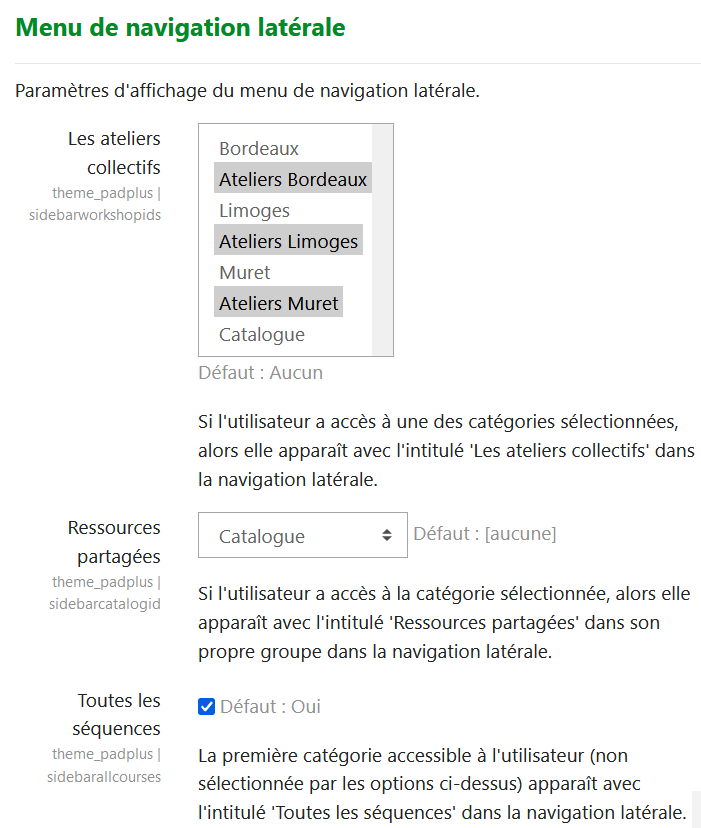
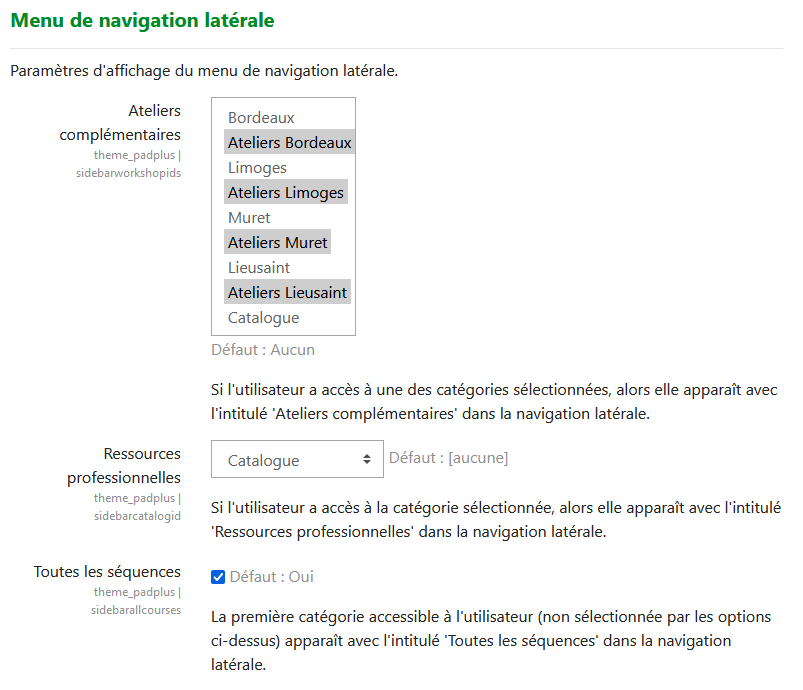
Update wording for workshops and shared resources

diff --git a/docs/organisation/contenu.md b/docs/organisation/contenu.md
@@ -3,7 +3,7 @@ sidebar_position: 1
 ---
 # Organisation et permissions
 
-Cette section décrit les principes d'organisation d'une instance PAD+. Cette organisation (et les rôles et permissions associés) permet d'héberger plusieurs sites (établissements, territoires...) sur la même instance PAD+, ainsi que de créer un catalogue de séquences et de ressources partagées entre professionnels. Cette section fait le point en particulier sur :
+Cette section décrit les principes d'organisation d'une instance PAD+. Cette organisation (et les rôles et permissions associés) permet d'héberger plusieurs sites (établissements, territoires...) sur la même instance PAD+, ainsi que de partager des ressources entre professionnels. Cette section fait le point en particulier sur :
 
 - ce qui relève de Moodle et du modèle PAD+ générique : une organisation arborescente par catégorie, avec une gestion des droits d'accès par des rôles ;
 - ce qui relève des règles d'usage à décider et gérer pour votre instance : les règles d'organisation, le nombre de niveaux, l'homogénéité entre les catégories voisines, l'attribution des rôles...
@@ -21,21 +21,21 @@ Les sections intitulées "Votre instance" (encadrés verts) rappellent les point
 
 ## Vue globale d'une instance PAD+
 
-L'organisation du contenu d'une instance PAD+ est basée sur l'arborescence des catégories de Moodle. Tout le contenu est donc hébergé sous la même arborescence, y compris le catalogue partagé.
+L'organisation du contenu d'une instance PAD+ est basée sur l'arborescence des catégories de Moodle. Tout le contenu est donc hébergé sous la même arborescence, y compris les ressources professionnelles.
 
 ![Organisation hiérarchique du contenu d'une instance PAD+](/img/organisation/organisation-instance.png)
 
 Sous la racine de l'arborescence (catégorie "Niveau supérieur" dans Moodle), on trouve donc les catégories principales de l'instance :
 
 - une catégorie pour les séquences du chaque site : celle-ci accueillera les séquences construites par les professionnels et travaillées par les stagiaires sur un site donné.
-- une catégorie pour les ateliers de chaque site : celle-ci accueillera les séquences laissées en accès libre ou auto-inscription aux stagiaires du site donné. Pour que les stagiaires puissent parcourir cette catégorie (voir plus bas), il faut que ces catégories soient sous la racine.
-- une catégorie à part pour le catalogue partagé : cette catégorie sera accessible uniquement aux professionnels, pour faciliter le partage de séquences et ressources.
+- une catégorie pour les ateliers complémentaires de chaque site : celle-ci accueillera les séquences laissées en accès libre ou auto-inscription aux stagiaires du site donné. Pour que les stagiaires puissent parcourir cette catégorie (voir plus bas), il faut que ces catégories soient sous la racine.
+- une catégorie à part pour les ressources professionnelles : cette catégorie sera accessible uniquement aux professionnels, pour faciliter le partage de séquences et ressources.
 
 :::tip Votre instance
 La granularité des catégories "site" est à déterminer par la gouvernance de l'instance : établissement, territoire... Un site correspond généralement à un regroupement d'un ensemble de professionnels et de stagiaires travaillant ensemble sur une zone géographique.
 :::
 
-Seuls les administrateurs et les gestionnaires d'instance (gestionnaire au niveau système dans Moodle) ont cette vue sur tout le contenu. En particulier, seuls ces usagers ont la capacité d'administrer l'arborescence du catalogue partagé. Un gestionnaire d'instance agit donc comme référent du catalogue.
+Seuls les administrateurs et les gestionnaires d'instance (gestionnaire au niveau système dans Moodle) ont cette vue sur tout le contenu. En particulier, seuls ces usagers ont la capacité d'administrer l'arborescence des ressources professionnelles. Un gestionnaire d'instance agit donc comme référent des ressources professionnelles.
 
 :::info PAD+
 La permission `moodle/category:viewcourselist` est retirée par défaut à tous les usagers (y compris anonymes) pour que ceux-ci ne voient pas toute l'arborescence mais uniquement celle qui leur est destinée. La visibilité de l'arborescence `moodle/category:viewcourselist` est redéfinie pour tous les rôles pour s'appliquer uniquement dans leur contexte. Le gestionnaire d'instance voit donc toute l'arborescence au niveau système.
@@ -52,26 +52,26 @@ Le rôle gestionnaire peut aussi être attribué à un usager au niveau d'une ca
 Il n'y a pas de contraintes Moodle imposant la même arborescence sur chaque site. Chaque gestionnaire de site peut définir sa propre arborescence. Si vous voulez définir des règles d'organisation communes pour tous les sites, il faudra donc que chaque gestionnaire de site définisse son arborescence en respectant ces règles.
 :::
 
-### Cas particulier du catalogue partagé
+### Cas particulier des ressources professionnelles
 
-Un gestionnaire de site n'a les droits que sur l'arborescence de son site. Par défaut il n'aura donc aucun accès sur le catalogue partagé qui constitue une catégorie à côté. Si on souhaite que cet usager ait accès au catalogue, il faut donc décider avec quel rôle et donc quels droits :
+Un gestionnaire de site n'a les droits que sur l'arborescence de son site. Par défaut il n'aura donc aucun accès sur les ressources pour les professionnels qui constitue une catégorie à côté. Si on souhaite que cet usager ait accès aux ressources professionnelles, il faut donc décider avec quel rôle et donc quels droits :
 
 - on peut le désigner contributeur, comme un professionnel, ce qui lui permet de consulter et contribuer au contenu des séquences, sans gérer l'arborescence ;
-- on peut le désigner comme gestionnaire de la catégorie "catalogue", ce qui lui permet de gérer l'arborescence du catalogue, comme le gestionnaire d'instance.
+- on peut le désigner comme gestionnaire de la catégorie "ressources professionnelles", ce qui lui permet de gérer l'arborescence des ressources professionnelles, comme le gestionnaire d'instance.
 
 
 ## Vue d'une instance PAD+ pour un professionnel
 
 L'usager professionnel est soit un formateur, soit un accompagnant du domaine MPS(I). Cet usager est défini par deux rôles à des niveaux différents dans la PAD+ :
 
-- le rôle contributeur ("créateur de cours" dans Moodle) dans un site et dans le catalogue : celui-ci lui permet de parcourir les catégories de son site et du catalogue, de consulter les séquences sans être inscrit, de créer des séquences ;
-- le rôle intervenant pour les séquences qu'il a créé (ou peut éditer) et dont il assure les inscriptions et le suivi des stagiaires ; cela inclut les séquences du catalogue dont il est l'auteur ;
+- le rôle contributeur ("créateur de cours" dans Moodle) dans un site et dans les ressources professionnelles : celui-ci lui permet de parcourir les catégories de son site et les ressources professionnelles, de consulter les séquences sans être inscrit, de créer des séquences ;
+- le rôle intervenant pour les séquences qu'il a créé (ou peut éditer) et dont il assure les inscriptions et le suivi des stagiaires ; cela inclut les ressources professionnelles dont il est l'auteur ;
 - un troisième rôle "intervenant non éditeur" peut éventuellement être attribué dans une séquence, pour aider à l'évaluation et au suivi des stagiaires, sans pouvoir modifier le contenu.
 
 ![Vue d'une instance PAD+ pour un professionnel](/img/organisation/organisation-professionnel.png)
 
 :::info PAD+
-- Le rôle contributeur se voit associer quatre permissions : `moodle/category:viewcourselist` pour voir l'arborescence sur son site et dans le catalogue ; et `moodle/course:view` pour consulter une séquence sans être inscrit en tant qu'intervenant. Enfin `moodle/backup:backupcourse` et `moodle/restore:restorecourse` lui permettent d'accéder à la fonction de copie de séquences entre catégories, pour faciliter le partage.
+- Le rôle contributeur se voit associer quatre permissions : `moodle/category:viewcourselist` pour voir l'arborescence sur son site et dans les ressources professionnelles ; et `moodle/course:view` pour consulter une séquence sans être inscrit en tant qu'intervenant. Enfin `moodle/backup:backupcourse` et `moodle/restore:restorecourse` lui permettent d'accéder à la fonction de copie de séquences entre catégories, pour faciliter le partage.
 
 - Le rôle intervenant est autorisé à inscrire un autre usager comme intervenant (en plus des classiques "intervenant non éditeur" et "stagiaire") pour pouvoir contribuer à plusieurs sur une séquence.
 :::
@@ -89,11 +89,11 @@ Le stagiaire n'a accès sur la plateforme qu'à ce qui l'intéresse directement 
 :::info PAD+
 - Le rôle stagiaire récupère la permission `moodle/category:viewcourselist`.
 
-- Le rôle stagiaire peut être assigné au niveau d'une catégorie, ce qui lui permet d'être ajouté dans la catégorie "Ateliers" de son site pour découvrir ceux-ci.
+- Le rôle stagiaire peut être assigné au niveau d'une catégorie, ce qui lui permet d'être ajouté dans la catégorie "Ateliers complémentaires" de son site pour découvrir ceux-ci.
 :::
 
-:::caution Niveau des catégories "ateliers" dans l'arborescence
-Pour qu'un stagiaire puisse parcourir une catégorie atelier, il faut qu'elle soit déclarée au niveau supérieur. Elle ne peut pas être une sous-catégorie du site. On privilégiera une convention mettant côte à côte les catégories d'un site et les ateliers associés au site :
+:::caution Niveau des catégories "ateliers complémentaires" dans l'arborescence
+Pour qu'un stagiaire puisse parcourir sa catégorie des ateliers complémentaires, il faut qu'elle soit déclarée au niveau supérieur. Elle ne peut pas être une sous-catégorie du site. On privilégiera une convention mettant côte à côte les catégories d'un site et les ateliers complémentaires associés au site :
 
 - Site 1
 - Ateliers Site 1

diff --git a/docs/organisation/roles.md b/docs/organisation/roles.md
@@ -18,8 +18,8 @@ La désignation d'un utilisateur comme [administrateur (MoodleDoc)](https://docs
 Le gestionnaire d'instance a tous les droits pour consulter le site, modifier le contenu, créer des comptes et attribuer des rôles (hors administrateur). Il n'a pas accès aux options techniques contrairement à l'administrateur. C'est donc un rôle réservé à des utilisateurs avertis.
 
 > En tant qu'administrateur ou gestionnaire d'instance
-> - Je gère les droits d'accès des professionnels à leur site et au catalogue.
-> - J'organise l'arborescence générale des sites et celle du catalogue partagé en particulier.
+> - Je gère les droits d'accès des professionnels à leur site et aux ressources professionnelles.
+> - J'organise l'arborescence générale des sites et celle des ressources professionnelles en particulier.
 > - J'ai accès à la consultation et à l'édition de toutes les séquences.
 
 L'attribution se fait dans *Administration du site / Utilisateurs / (Permissions) / Attribution des rôles système*.
@@ -30,7 +30,7 @@ L'attribution se fait dans *Administration du site / Utilisateurs / (Permissions
     ![Interface d'attribution du rôle gestionnaire d'instance](/img/organisation/ajout_gestionnaire_instance.png)
 
 :::caution Rôle système et autres rôles
-Le gestionnaire d'instance doit être le **seul rôle attribué au niveau "Système"** dans le modèle PAD+, ce qui veut dire que ses droits s'appliquent partout. Les rôles décrits ci-dessous sont restreints au niveau de quelques catégories (gestionnaire, contributeur, stagiaire pour l'accès aux ateliers) ou des séquences (intervenant, intervenant non éditeur, stagiaire).
+Le gestionnaire d'instance doit être le **seul rôle attribué au niveau "Système"** dans le modèle PAD+, ce qui veut dire que ses droits s'appliquent partout. Les rôles décrits ci-dessous sont restreints au niveau de quelques catégories (gestionnaire, contributeur, stagiaire pour l'accès aux ateliers complémentaires) ou des séquences (intervenant, intervenant non éditeur, stagiaire).
 :::
 
 
@@ -57,7 +57,7 @@ Le gestionnaire de site est habituellement désigné par un administrateur ou un
 - N'oubliez pas de répéter cette attribution pour **toutes les catégories** que l'utilisateur doit gérer : un gestionnaire de site peut gérer par exemple la catégorie "Site A" mais aussi la catégorie voisine "Ateliers Site A".
 
 :::info Rôles multiples pour un utilisateur
-Un utilisateur peut avoir des rôles différents par catégorie. Il peut par exemple être gestionnaire de site sur des catégories "site" mais simple [contributeur](#contributeur) sur la catégorie "catalogue".
+Un utilisateur peut avoir des rôles différents par catégorie. Il peut par exemple être gestionnaire de site sur des catégories "site" mais simple [contributeur](#contributeur) sur la catégorie "ressources professionnelles".
 :::
 
 
@@ -66,15 +66,15 @@ Un utilisateur peut avoir des rôles différents par catégorie. Il peut par exe
 L'usager professionnel est soit un formateur, soit un accompagnant du domaine MPS(I).
 
 > En tant que professionnel
-> - Je peux consulter toutes les séquences sur mon site et dans le catalogue (sans m'inscrire).
+> - Je peux consulter toutes les séquences sur mon site et dans les ressources professionnelles (sans m'inscrire).
 > - Je peux créer une séquence dans l'arborescence de mon site.
 > - Je peux inscrire des stagiaires dans mes séquences et assurer le suivi des stagiaires.
-> - Je peux copier des séquences entre le catalogue et mon site.
+> - Je peux copier des ressources entre les ressources professionnelles partagées et mon site.
 
 Cet usager est défini par deux rôles à des niveaux différents dans la PAD+ :
 
-- le rôle contributeur ("créateur de cours" dans Moodle) dans un site et dans le catalogue : celui-ci lui permet de parcourir les catégories de son site et du catalogue, de consulter les séquences sans être inscrit, de créer des séquences ;
-- le rôle intervenant pour les séquences qu'il a créé (ou peut éditer) et dont il assure les inscriptions et le suivi des stagiaires ; cela inclut les séquences du catalogue dont il est l'auteur ;
+- le rôle contributeur ("créateur de cours" dans Moodle) dans un site et dans les ressources professionnelles : celui-ci lui permet de parcourir les catégories de son site et des ressources professionnelles, de consulter les séquences sans être inscrit, de créer des séquences ;
+- le rôle intervenant pour les séquences qu'il a créé (ou peut éditer) et dont il assure les inscriptions et le suivi des stagiaires ; cela inclut les ressources professionnelles dont il est l'auteur ;
 
 ### Contributeur d'une catégorie {#contributeur}
 
@@ -89,7 +89,7 @@ Un gestionnaire de la catégorie visée peut attribuer le rôle contributeur à 
 
     ![Interface d'attribution du rôle contributeur](/img/organisation/ajout_contributeur.png)
 
-- N'oubliez pas de répéter cette attribution pour **toutes les catégories** où l'utilisateur peut accéder et contribuer : il s'agit par exemple des catégories "Site A" et "Ateliers Site A" mais aussi du **catalogue**.
+- N'oubliez pas de répéter cette attribution pour **toutes les catégories** où l'utilisateur peut accéder et contribuer : il s'agit par exemple des catégories "Site A" et "Ateliers Site A" mais aussi des **ressources professionnelles**.
 
 ### Intervenant d'une séquence (et intervenant non éditeur) {#inscription}
 
@@ -109,20 +109,20 @@ Le stagiaire a une vue limitée au contenu qui le concerne directement.
 
 > En tant que stagiaire
 > - Je peux participer aux séquences auxquelles je suis inscrit.
-> - Je peux voir les ateliers de mon site et m'inscrire tout seul.
+> - Je peux voir les ateliers complémentaires de mon site et m'inscrire tout seul.
 > - Je ne vois pas les autres séquences.
 
-Il y a deux procédures : une pour l'accès à la catégorie ateliers de son site et une pour l'inscription aux séquences.
+Il y a deux procédures : une pour l'accès à la catégorie "ateliers complémentaire" de son site et une pour l'inscription aux séquences.
 
-### Accès aux ateliers
+### Accès aux ateliers complémentaires
 
-Les ateliers sont des séquences en auto-inscription (ou accès libre) hébergés dans une catégorie particulière : les stagiaires doivent donc avoir accès à cette catégorie pour parcourir les séquences et s'inscrire eux-mêmes.
+Les ateliers complémentaires sont des séquences en auto-inscription (ou accès libre) hébergés dans une catégorie particulière : les stagiaires doivent donc avoir accès à cette catégorie pour parcourir les séquences et s'inscrire eux-mêmes.
 
-Un gestionnaire (de site ou d'instance) doit attribuer le rôle stagiaire dans la catégorie **Ateliers site** qui concerne le stagiaire.
+Un gestionnaire (de site ou d'instance) doit attribuer le rôle stagiaire dans la catégorie **Ateliers complémentaires du site** qui concerne le stagiaire.
 
 - Depuis la page de la catégorie, ouvrez le menu d'action et sélectionnez le choix **Attribution des rôles**.
 
-    ![Interface d'attribution du rôle stagiaire dans une catégorie d'ateliers](/img/organisation/ajout_stagiaire_atelier.png)
+    ![Interface d'attribution du rôle stagiaire dans une catégorie d'ateliers complémentaires](/img/organisation/ajout_stagiaire_atelier.png)
 
 - Cliquez sur le rôle Stagiaire dans la nouvelle page.
 - Recherchez et ajoutez l'utilisateur dans la liste des stagiaires.

diff --git a/docs/organisation/donnees.md b/docs/organisation/donnees.md
@@ -62,21 +62,21 @@ Il est recommandé d'ajouter des descriptions sur certaines catégories pour aid
 
 Sur la page de la catégorie visée, ouvrir son menu d'actions et sélectionner l'option "Modifier cette catégorie" pour pouvoir éditer sa description.
 
-Par exemple sur les catégories "Ateliers" :
+Par exemple sur les catégories "Ateliers complémentaires" :
 
 > Voici la liste des ateliers disponibles proposés par votre établissement.
 > Il peut s'agir de rencontres avec des intervenants extérieurs, d'ateliers collectifs autour d'un sujet en particulier comme la recherche d'emploi, une initiation à la méditation, une sortie culturelle, etc...
 >
 > **Ils sont ouverts en auto-inscription pour tous les stagiaires.**
 
-Par exemple pour la catégorie des ressources pour les professionnels :
+Par exemple pour la catégorie des ressources professionnelles :
 
 > **Bienvenue dans l’espace collaboratif ouvert aux professionnels de chaque établissement.**
 > Vous y retrouverez toutes les ressources mises à disposition en libre service : des séquences complètes, des fiches pratiques, des document types, etc...
 
 La description s'affiche immédiatement sous le titre de la catégorie.
 
-![Exemple de description intégrée dans une catégorie Atelier](/img/organisation/atelier_description.png)
+![Exemple de description intégrée dans une catégorie Ateliers complémentaires](/img/organisation/atelier_description.png)
 
 
 ### Export d'une arborescence existante
@@ -132,12 +132,12 @@ Notez que cette fonctionnalité d'import en masse ne gère pas toutes les option
 
 ### Import des gabarits {#gabarits}
 
-Les gabarits sont des modèles de séquence ou d'atelier que vous pouvez importer sur votre instance PAD+ pour les mettre à disposition de vos contributeurs :
+Les gabarits sont des modèles de séquence ou d'atelier complémentaire que vous pouvez importer sur votre instance PAD+ pour les mettre à disposition de vos contributeurs :
 
 - [gabarit "séquence"](pathname:///ressources/sauvegarde-moodle2-course-76-gabarit-20220613-1810-nu.mbz) : un modèle de séquence structuré avec 4 séances par défaut et quelques conseils pour la présentation et l'accessibilité
-- [gabarit "atelier"](pathname:///ressources/sauvegarde-moodle2-course-427-gabarit_atelier-20220613-1811-nu.mbz) : un modèle pour les informations d'un atelier complémentaire, sans séance mais avec une activité "feedback"
+- [gabarit "atelier complémentaire"](pathname:///ressources/sauvegarde-moodle2-course-427-gabarit_atelier-20220613-1811-nu.mbz) : un modèle pour les informations d'un atelier complémentaire, sans séance mais avec une activité "feedback"
 
-Depuis la page *Administration du site / Séquences / **Restaurer une séquence**,* déposez un des fichiers de gabarit ci-dessus et suivez la procédure de restauration. Pour le gabarit "Atelier", il est conseillé de sélectionner "Oui" pour le choix "Inclure les méthodes d'inscription" qui permet de garder l'auto-inscription pour les stagiaires. A vous de voir dans quel endroit de l'arborescence les importer pour les rendre facilement disponible pour vos usagers (par exemple, parmi les ressources pour les professionnels).
+Depuis la page *Administration du site / Séquences / **Restaurer une séquence**,* déposez un des fichiers de gabarit ci-dessus et suivez la procédure de restauration. Pour le gabarit "Atelier complémentaire", il est conseillé de sélectionner "Oui" pour le choix "Inclure les méthodes d'inscription" qui permet de garder l'auto-inscription pour les stagiaires. A vous de voir dans quel endroit de l'arborescence les importer pour les rendre facilement disponible pour vos usagers (par exemple, parmi les ressources pour les professionnels).
 
 
 ## Création des utilisateurs et inscription aux séquences {#users-register}

diff --git a/docs/organisation/memento.md b/docs/organisation/memento.md
@@ -24,7 +24,7 @@ Pour ajouter un nouveau site, il faut :
 1. créer une **catégorie pour le site** *au niveau supérieur* des catégories, depuis la page  *Administration du site / Séquences / **Gestion des séquences et catégories** *
 1. créer l'arborescence des sous-catégories pour les parcours (par exemple : plateformes et modules) dans la nouvelle catégorie de site
 1. créer une catégorie pour les **ateliers complémentaires** *au niveau supérieur* des catégories, à côté donc de la catégorie du site
-1. [configurer le menu latéral](/marqueblanche/presentation#sidebarmenu) pour le bon affichage de la catégorie "Atelier"
+1. [configurer le menu latéral](/marqueblanche/presentation#sidebarmenu) pour le bon affichage de la catégorie "Ateliers complémentaires"
 
 ## Attribution des rôles des usagers sur un site PAD+
 
@@ -41,7 +41,7 @@ Un [gestionnaire de site](./roles#gestionnaire-de-site) a les droits d'administr
 Depuis la page  *Administration du site / Séquences / **Gestion des séquences et catégories** :*
 
 1. attribuer le rôle **gestionnaire** sur la catégorie du site (ouvrir le menu d'actions de la catégorie, choix "Attribution des rôles")
-1. attribuer le rôle **gestionnaire** sur la catégorie "Ateliers" associée au site
+1. attribuer le rôle **gestionnaire** sur la catégorie "Ateliers complémentaires" associée au site
 1. attribuer le rôle **contributeur** ou **gestionnaire** sur la catégorie des ressources professionnelles
 
 ### Désignation d'un professionnel formateur ou MPS(I)
@@ -49,7 +49,7 @@ Depuis la page  *Administration du site / Séquences / **Gestion des séquences 
 Depuis la page  *Administration du site / Séquences / **Gestion des séquences et catégories** :*
 
 1. attribuer le rôle **contributeur** sur la catégorie du site (ouvrir le menu d'actions de la catégorie, choix "Attribution des rôles")
-1. attribuer le rôle **contributeur** sur la catégorie "Ateliers" associée au site
+1. attribuer le rôle **contributeur** sur la catégorie "Ateliers complémentaires" associée au site
 1. attribuer le rôle **contributeur** sur la catégorie des ressources professionnelles
 
 Les [professionnels](./roles#professionnel) deviennent automatiquement **intervenants** des séquences qu'ils créent ou copient, ou bien peuvent être désignés comme tels par leurs pairs via les inscriptions dans l'administration d'une séquence.
@@ -58,6 +58,6 @@ Les [professionnels](./roles#professionnel) deviennent automatiquement **interve
 
 Depuis la page  *Administration du site / Séquences / **Gestion des séquences et catégories** :*
 
-1. attribuer le rôle **stagiaire** dans la catégorie "Atelier" liée à son site (pour l'accès aux ateliers en auto-inscription).
+1. attribuer le rôle **stagiaire** dans la catégorie "Ateliers complémentaires" liée à son site (pour l'accès aux ateliers en auto-inscription).
 
 Les [stagiaires](./roles#stagiaire) sont inscrits par les professionnels dans les séquences suivant leur parcours.

diff --git a/docs/marqueblanche/presentation.md b/docs/marqueblanche/presentation.md
@@ -72,12 +72,12 @@ Les catégories disponibles pour l'usager (professionnel ou stagiaire) sont affi
 
     ![Menu latéral : exemples d'affichage des catégories avec leurs noms propres à gauche et intitulés PAD+ à droite](/img/marqueblanche/menus.png)
 
-Le professionnel a accès à *toutes les séquences* et aux *ateliers collectifs* **sur son site (établissement, territoire)** mais ignore les autres sites. Les *ressources partagées* constituent une catégorie à part puisqu'elles permettent d'échanger avec les professionnels des autres sites. Le stagiaire a simplement accès aux *ateliers collectifs* **sur site**. Cette configuration PAD+ du menu latéral se fait dans l'interface *Administration du site / Présentation / Thèmes / PAD+* :
+Le professionnel a accès à *toutes les séquences* et aux *ateliers complémentaires* **sur son site (établissement, territoire)** mais ignore les autres sites. Les *ressources professionnelles* constituent une catégorie à part puisqu'elles permettent d'échanger avec les professionnels des autres sites. Le stagiaire a simplement accès aux *ateliers complémentaires* **sur site**. Cette configuration PAD+ du menu latéral se fait dans l'interface *Administration du site / Présentation / Thèmes / PAD+* :
 
 ![Paramètres d'affichage des catégories dans le menu latéral](/img/marqueblanche/menu-settings.png)
 
-- Le paramètre "les ateliers collectifs" permet de sélectionner toutes les catégories de l'instance qui seront désignées sous cet intitulé.
-- Le paramètre "ressources partagées" permet de sélectionner la catégorie qui apparaîtra sous cet intitulé dans le groupe en bas du menu latéral.
+- Le paramètre "ateliers complémentaires" permet de sélectionner toutes les catégories de l'instance qui seront désignées sous cet intitulé.
+- Le paramètre "ressources professionnelles" permet de sélectionner la catégorie qui apparaîtra sous cet intitulé dans le groupe en bas du menu latéral.
 - Le paramètre "toutes les séquences" donne cet intitulé à la première catégorie de l'usager (dans l'ordre) qui ne correspondrait pas aux critères ci-dessus. Il s'agit en quelque sorte de la catégorie par défaut pour le professionnel.
 
 :::info Règles d'affichage
